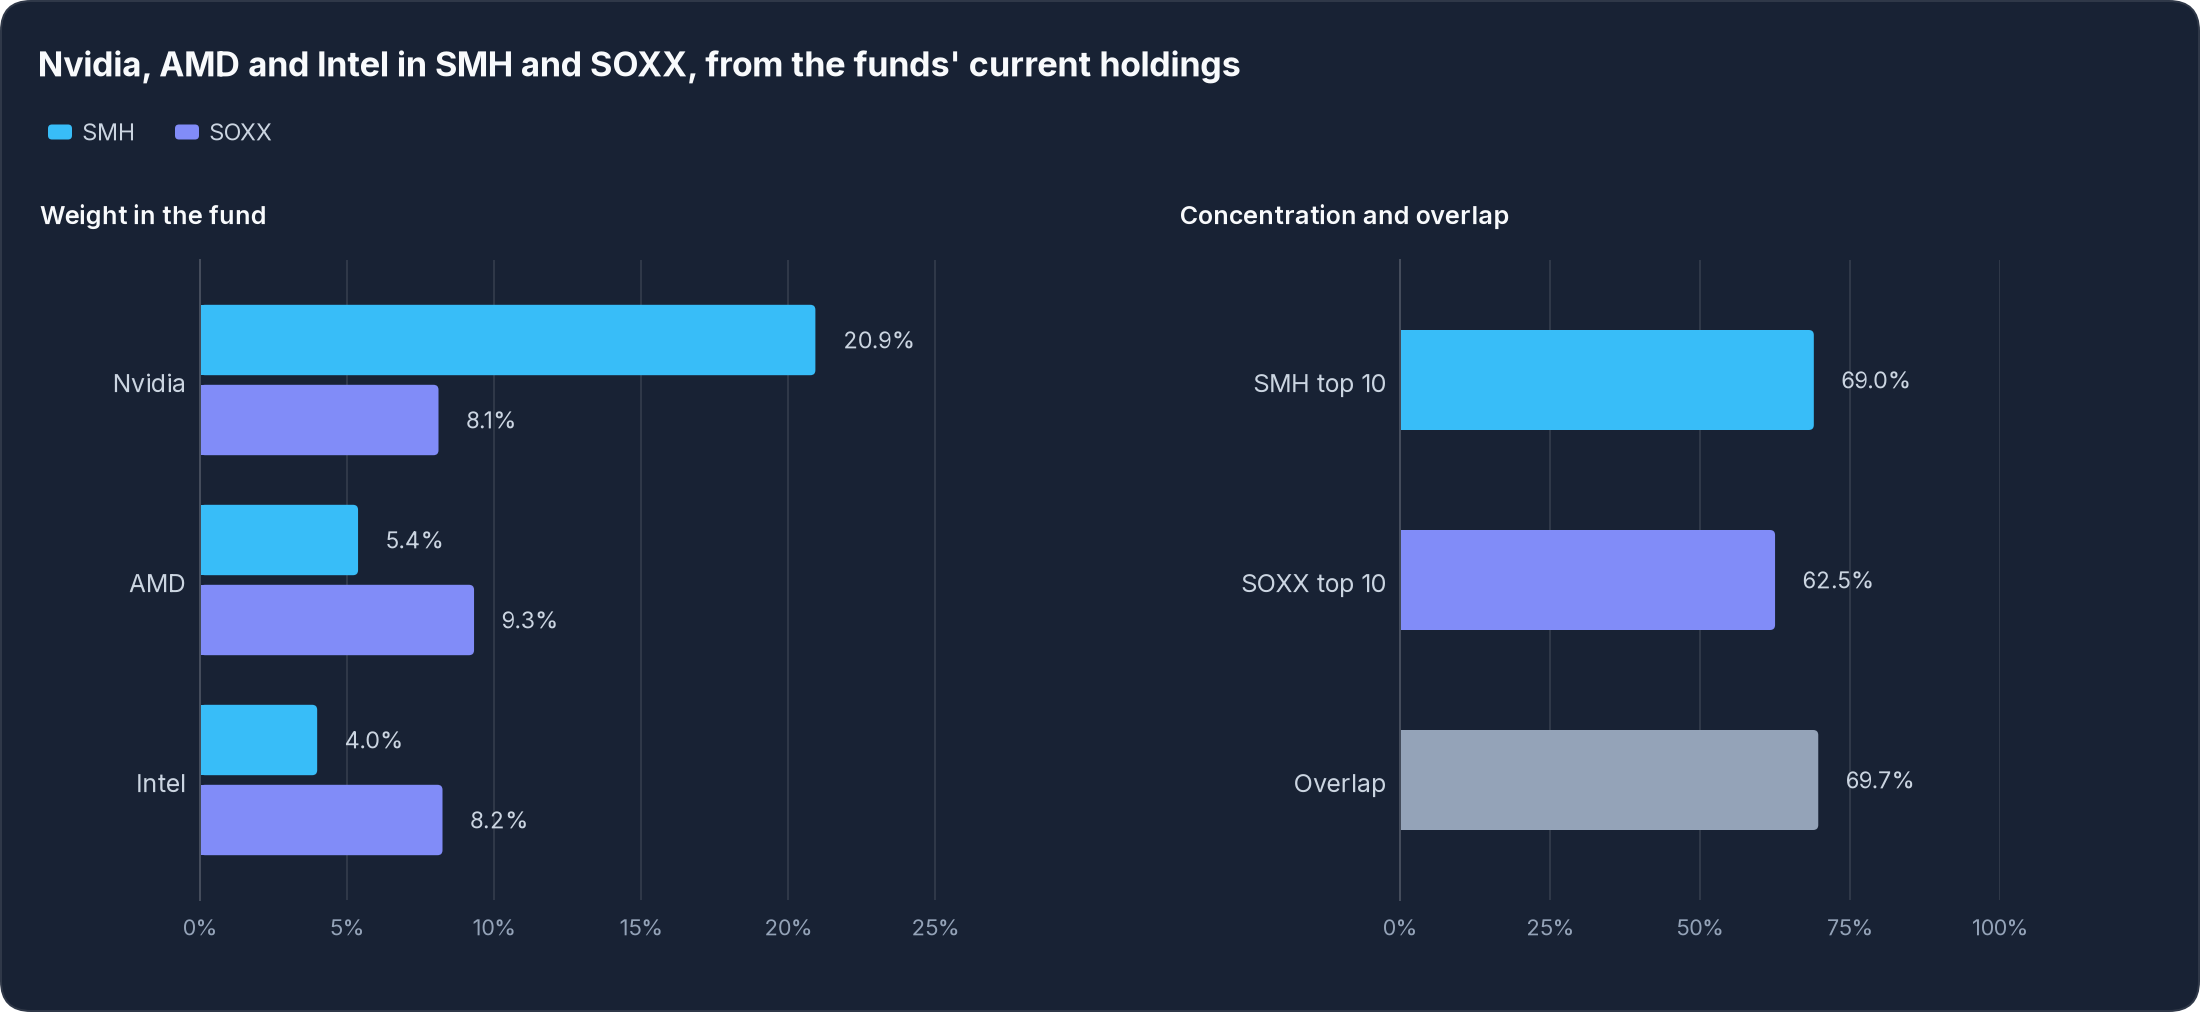
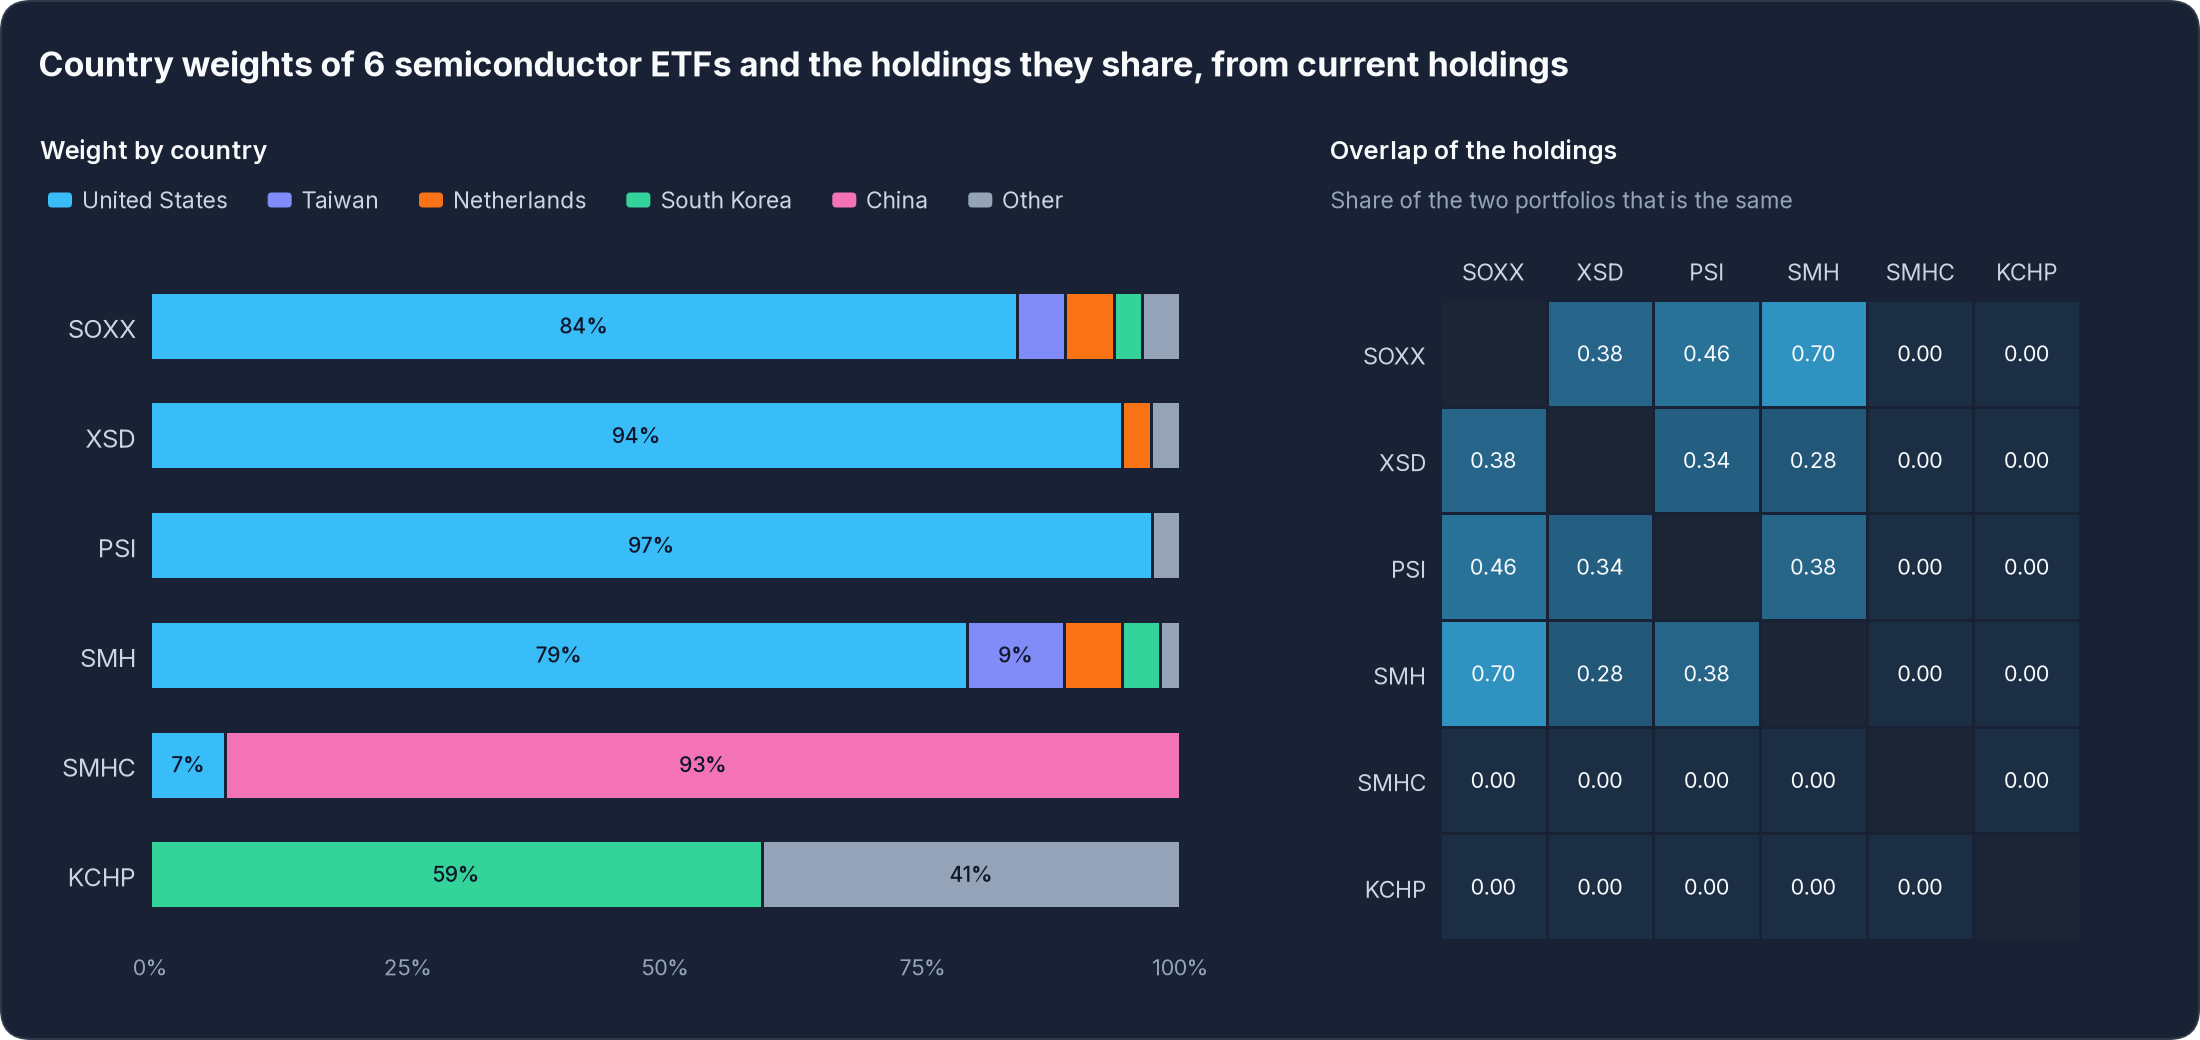
Compare six semiconductor ETFs across countries
The ETF chapter compares three US funds (SOXX, XSD, PSI), the global SMH and two single-country funds (SMHC, KCHP): the US funds largely hold the same companies while the China and Korea funds share nothing with them. The chart shows each fund's country weights next to the overlap between every pair. The Economic Relations example uses changes=None.

diff --git a/README.md b/README.md
@@ -386,7 +386,7 @@ monthly_returns["Real Yield"] = real_yield[("United States", "10Y")].diff()
 monthly_returns["Inflation Expectations"] = inflation_expectations[("United States", "10Y")].diff()
 
 # The data are changes already
-econometrics = Econometrics(data=monthly_returns, changes="none")
+econometrics = Econometrics(data=monthly_returns, changes=None)
 
 # Regress the return of each company on the change in the real yield and inflation expectations
 regressions = pd.concat(
@@ -421,38 +421,38 @@ The module also covers unit root and cointegration tests, Granger causality, pan
 
 ## Comparing the Sector's ETFs
 
-Rather than picking three companies, a fund holds the whole industry. The [ETF](https://www.jeroenbouma.com/projects/financetoolkit/docs/etf) module analyzes the holdings, sector and country weightings, tracking, concentration, overlap, valuation and liquidity of any fund, here two of the largest semiconductor funds, SMH and SOXX:
+Rather than picking three companies, a fund holds the whole industry. The [ETF](https://www.jeroenbouma.com/projects/financetoolkit/docs/etf) module analyzes the holdings, sector and country weightings, tracking, concentration, overlap, valuation and liquidity of any fund. Below it compares six semiconductor funds: three focused on the United States (SOXX, XSD and PSI), one global fund (SMH) and two that hold a single country, China (SMHC) and South Korea (KCHP):
 
 ```python
-# Initialize the Toolkit for two semiconductor funds
+# Initialize the Toolkit for six semiconductor funds
 funds = Toolkit(
-    ["SMH", "SOXX"],
+    ["SOXX", "XSD", "PSI", "SMH", "SMHC", "KCHP"],
     api_key="FINANCIAL_MODELING_PREP_KEY",
     start_date="2017-12-31",
     end_date="2025-12-31",
 )
 
-# How concentrated each fund is and how much the two hold of the same
+# Where each fund invests, how concentrated it is and how much the funds hold of the same
+country_weightings = funds.etf.get_country_weightings()
 concentration = funds.etf.get_concentration()
 overlap = funds.etf.get_overlap()
 
-# The weight of Nvidia, AMD and Intel in each fund
-holdings = funds.etf.get_holdings()
-weights = holdings.loc[(slice(None), ["NVDA", "AMD", "INTC"]), "Weight"].unstack(level=0)
-
-# Show the weights
-weights
+# Show the overlap between every pair of funds
+overlap.round(2)
 ```
 
-For example, the weight of each of the three companies in both funds is shown below. Holdings are those of today, as funds publish their current holdings only.
+For example, the overlap between every pair of funds is shown below: the share of the two portfolios that is the same. Holdings are those of today, as funds publish their current holdings only.
 
-| Asset   |       SMH |      SOXX |
-|:--------|----------:|----------:|
-| NVDA    | 0.209238  | 0.0810958 |
-| AMD     | 0.0537416 | 0.0931787 |
-| INTC    | 0.0398394 | 0.0824532 |
+|      |   SOXX |   XSD |   PSI |   SMH |   SMHC |   KCHP |
+|:-----|-------:|------:|------:|------:|-------:|-------:|
+| SOXX |   1    |  0.38 |  0.46 |  0.7  |   0    |      0 |
+| XSD  |   0.38 |  1    |  0.34 |  0.28 |   0    |      0 |
+| PSI  |   0.46 |  0.34 |  1    |  0.38 |   0    |      0 |
+| SMH  |   0.7  |  0.28 |  0.38 |  1    |   0    |      0 |
+| SMHC |   0    |  0    |  0    |  0    |   1.08 |      0 |
+| KCHP |   0    |  0    |  0    |  0    |   0    |      1 |
 
-And below these weights are plotted next to the weight of the ten largest holdings of each fund and the overlap between the two.
+The three US funds and SMH largely hold the same companies, with SOXX and SMH sharing 70% of their portfolios. SMH holds the most outside the United States, 9% in Taiwan and 6% in the Netherlands. The China and Korea funds share nothing with any other fund, which is what diversification within one sector looks like. Below, the country weights of each fund are plotted next to the overlap.
 
 <picture>
   <source media="(prefers-color-scheme: dark)" srcset="https://raw.githubusercontent.com/JerBouma/FinanceToolkit/main/assets/readme/etf-dark.png">
